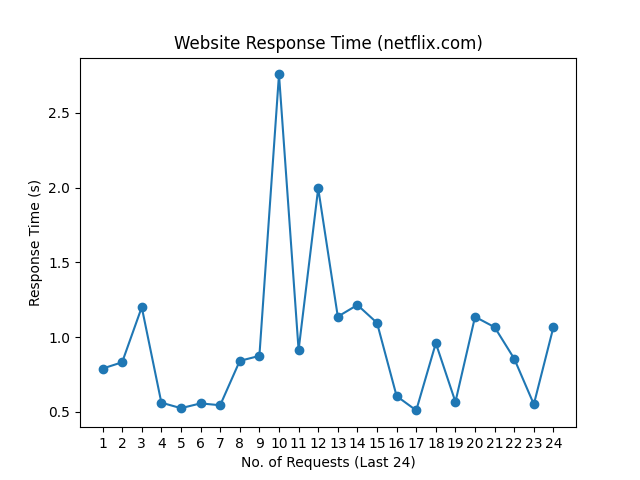
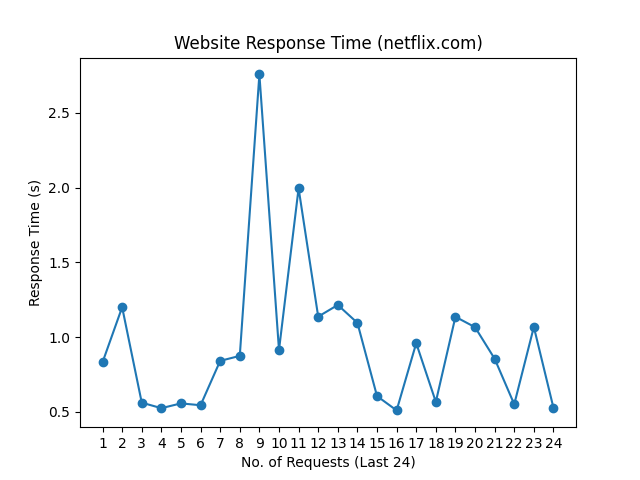
update README.md, history and graph

Changed region(s): [[0.1562, 0.125, 0.875, 0.875]]

diff --git a/README.md b/README.md
@@ -1,10 +1,10 @@
 # Web Monitoring
 
-Last Checked: 26/10/2023 08:58
+Last Checked: 27/10/2023 08:59
 
 | Website | Response Time (s) | Status | Avg Uptime (%) |
 |---------|-------------------|--------|----------------|
 | www.thiswebsiteisdown.net | 0 <br> <img src="graph/thiswebsiteisdown.net.png" alt="Graph" width="200" height="200">  | ❌ Down | 0.00 |
-| www.netflix.com | 1.067731 <br> <img src="graph/netflix.com.png" alt="Graph" width="200" height="200">  | ✅ Up | 100.00 |
-| www.google.com | 0.204450 <br> <img src="graph/google.com.png" alt="Graph" width="200" height="200">  | ✅ Up | 100.00 |
-| www.facebook.com | 0.320417 <br> <img src="graph/facebook.com.png" alt="Graph" width="200" height="200">  | ✅ Up | 100.00 |
+| www.netflix.com | 0.527289 <br> <img src="graph/netflix.com.png" alt="Graph" width="200" height="200">  | ✅ Up | 100.00 |
+| www.google.com | 0.091320 <br> <img src="graph/google.com.png" alt="Graph" width="200" height="200">  | ✅ Up | 100.00 |
+| www.facebook.com | 0.317711 <br> <img src="graph/facebook.com.png" alt="Graph" width="200" height="200">  | ✅ Up | 100.00 |
